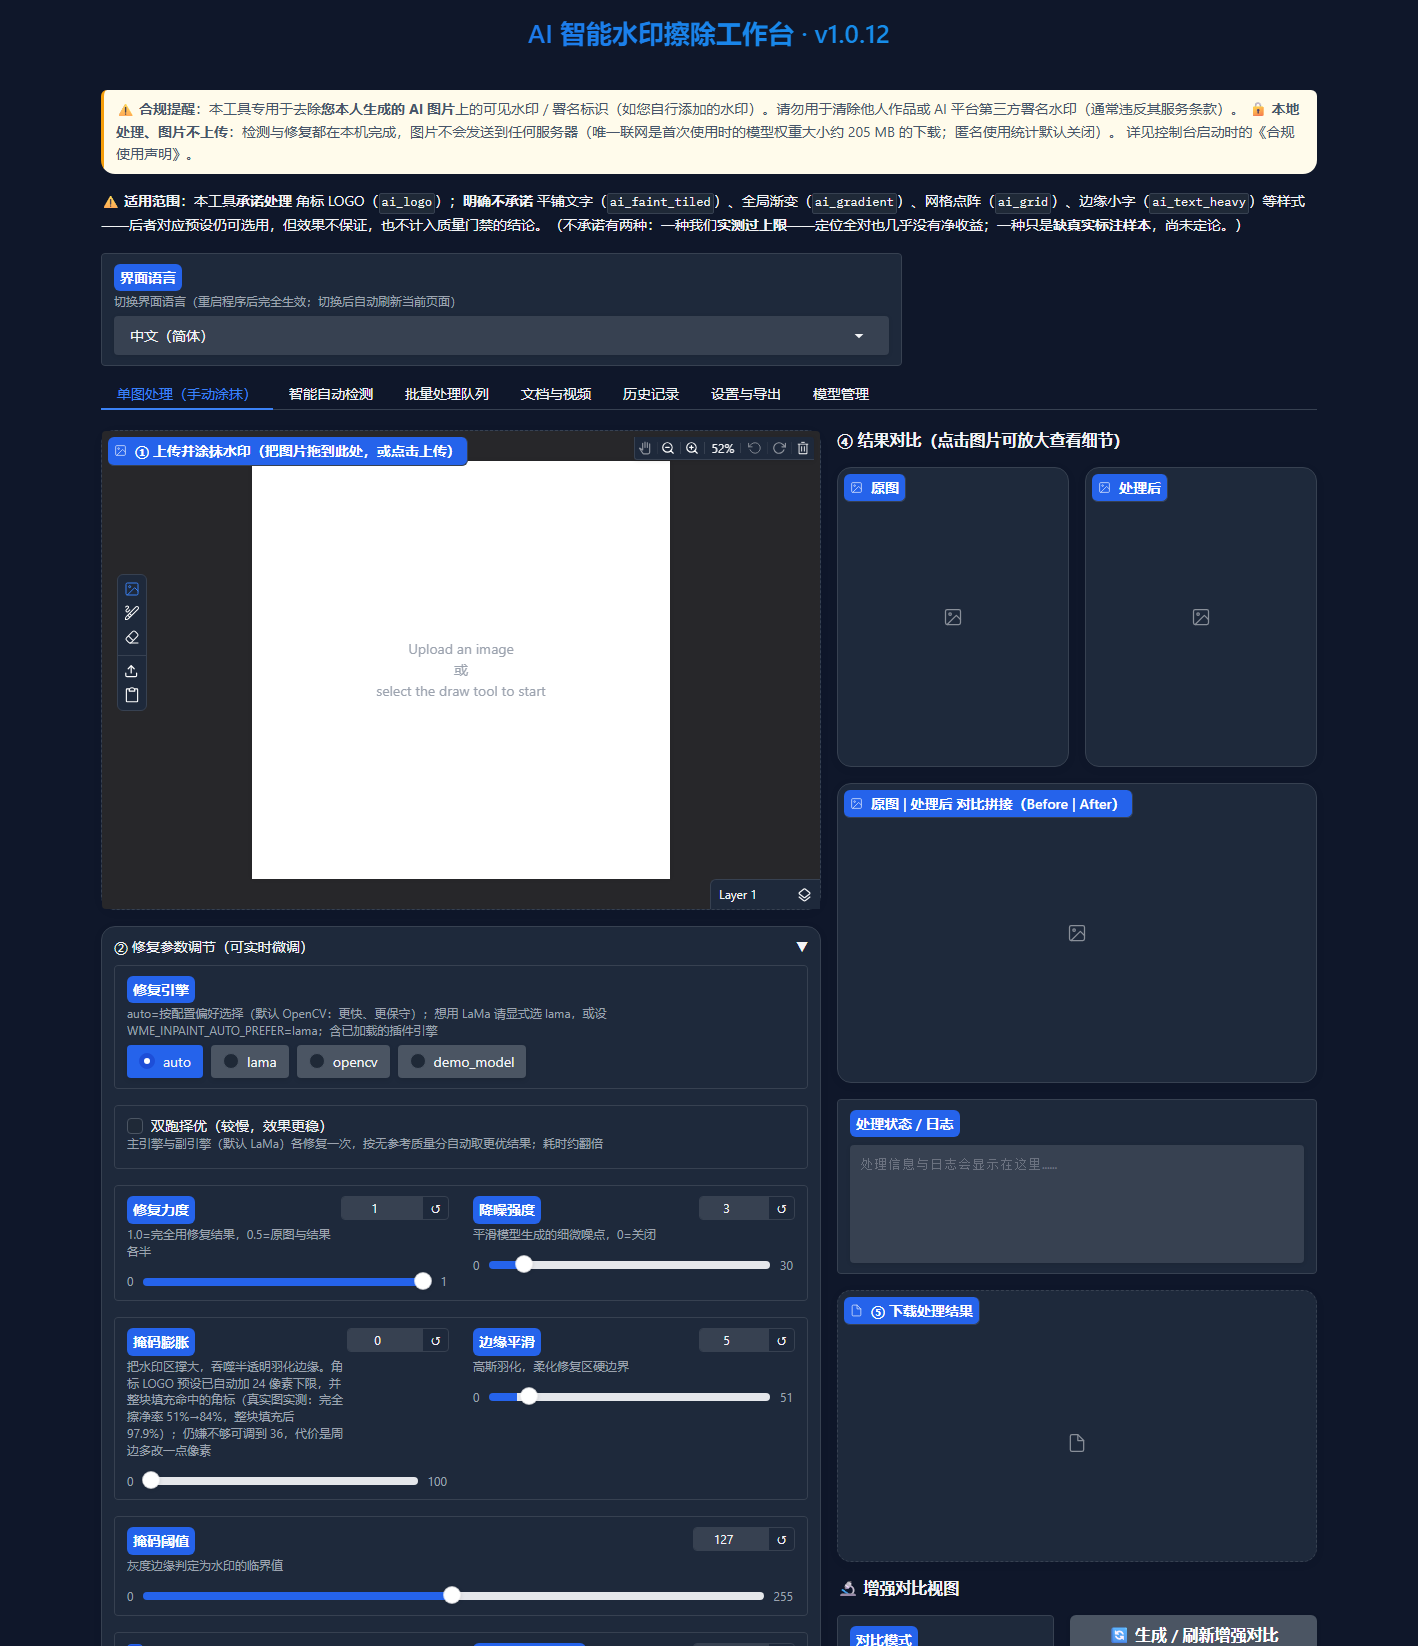
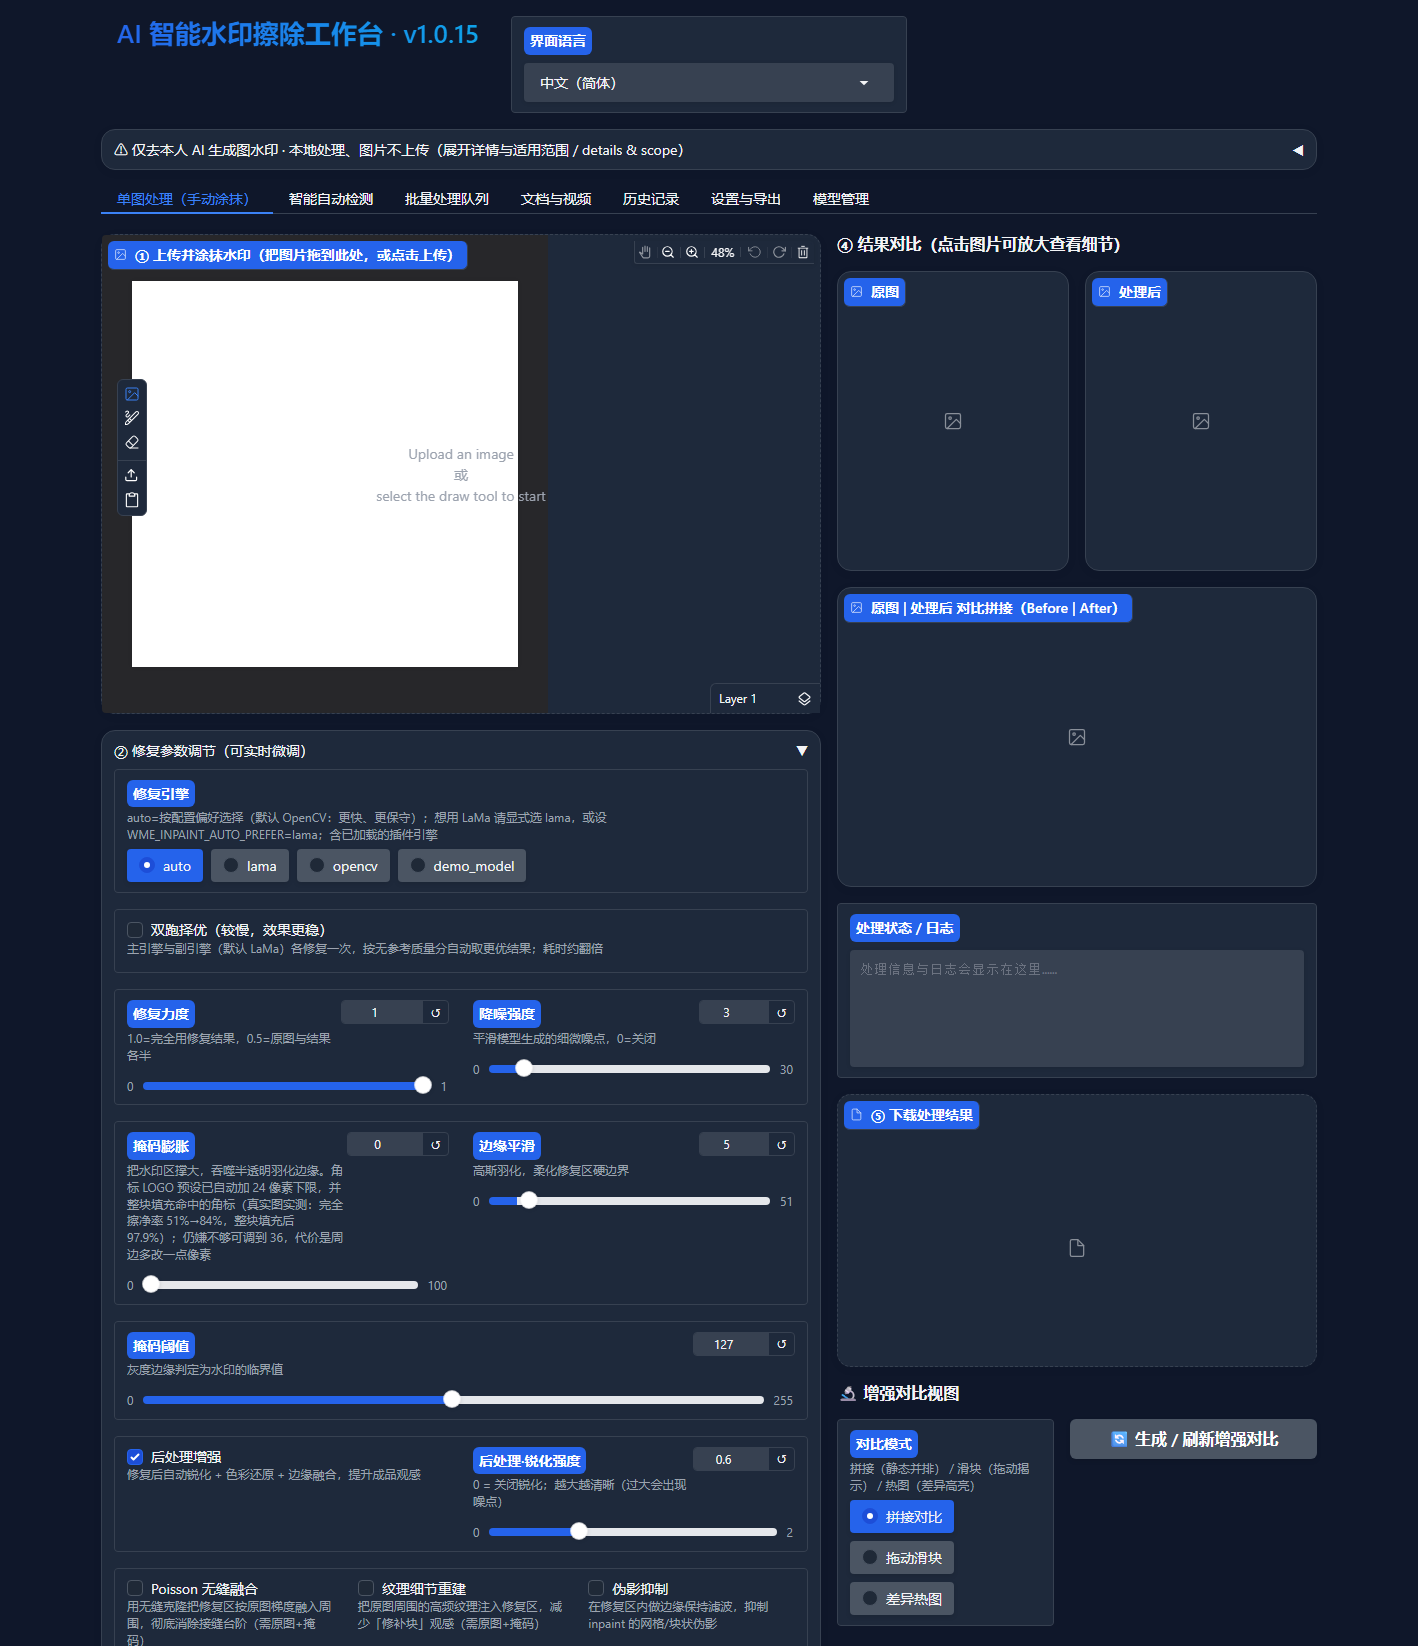
feat(界面): 首屏减负——合规/范围折叠+语言并入标题行，主流程上移（#413，截图+81守卫验证）

diff --git a/ui/app.py b/ui/app.py
@@ -408,26 +408,30 @@ def build_app() -> gr.Blocks:
         # 传给它会在启动时抛 TypeError —— 1.0.8 的发布物就是这样起不来的）。
         analytics_enabled=config.SERVER_ANALYTICS,
     ) as demo:
-        gr.Markdown(f"# {config.APP_NAME}  ·  v{config.APP_VERSION}")
-        compliance_md = gr.Markdown(_compliance_brief())
-        # 合规声明随语言切换刷新（值由 t() 实时取，不冻结）。
-        register(compliance_md, lambda: {"value": _compliance_brief()})
-        # 适用范围提示（阶段 95）：紧挨合规声明——两者都是「用之前必须知道的事」。
-        # 承诺面与类型名由 config 派生（见 ui.components.render_scope_note），
-        # 因此 config 里改一处 committed，界面文案自动同步（不会留下人读副本）。
-        scope_md = gr.Markdown(render_scope_note())
-        register(scope_md, lambda: {"value": render_scope_note()})
-
-        # ---- 顶部语言切换器 ----
+        # 阶段 413（首屏减负）：标题与语言选择同排，省掉独立语言卡。
         with gr.Row():
+            gr.Markdown(f"# {config.APP_NAME}  ·  v{config.APP_VERSION}")
             lang_dropdown = gr.Dropdown(
                 choices=[(t("lang.zh"), "zh-CN"), (t("lang.en"), "en-US")],
                 value=current_language(),
                 label=t("lang.label"),
-                info=t("lang.info"),
-                scale=2,
+                scale=1,
+                min_width=160,
             )
             lang_status = gr.Markdown("")
+        # 阶段 413（首屏减负）：合规+适用范围收进默认折叠 Accordion；
+        # 折叠标题即始终可见的合规摘要，保留「本地处理·图片不上传」核心信任点
+        # （test_compliance_statement 要求首屏写明不上传/本地）。全文点开可见，i18n 刷新保留。
+        with gr.Accordion(
+            "⚠ 仅去本人 AI 生成图水印 · 本地处理、图片不上传（展开详情与适用范围 / details & scope）",
+            open=False,
+        ):
+            compliance_md = gr.Markdown(_compliance_brief())
+            # 合规声明随语言切换刷新（值由 t() 实时取，不冻结）。
+            register(compliance_md, lambda: {"value": _compliance_brief()})
+            # 适用范围提示（阶段 95）：承诺面与类型名由 config 派生，改一处界面自动同步。
+            scope_md = gr.Markdown(render_scope_note())
+            register(scope_md, lambda: {"value": render_scope_note()})
 
         with gr.Tabs():
             with gr.TabItem(t("app.tab.single"), id="single", elem_id="single"):

diff --git a/.workbuddy/memory/2026-11-15.md b/.workbuddy/memory/2026-11-15.md
@@ -117,3 +117,9 @@ docs/408 + INDEX + CHANGELOG [Unreleased] + 本日记。不推送/不发布（1.
 - 闭环：7 处版本同步→build→两道产物闸→tag v1.0.15→push（本次无分叉，直推）→Publish #26 success。
 - PyPI 复验：requires_dist 15、wheel 1541826B（核字节数防截断）；安装态自检 rc=0；纯净 venv 黄金路径 success。
 - 本版：411 PNG 保存 5.1×。发布记录提交留本地。
+
+## 阶段 413：客户端首屏减负（用户选「首屏减负」）
+
+- 合规+适用范围收进默认折叠 Accordion（标题=始终可见合规摘要，含本地·不上传）；语言并入标题行。
+- 首屏主流程上移约220px；真实截图验证（Chrome 无头+mini_cdp）；81 UI 守卫绿；官方截图刷新。
+- 方法：brainstorming bounded→先看真实界面→问重点→给设计获批→改→截图+守卫验证。

diff --git a/CHANGELOG.md b/CHANGELOG.md
@@ -52,6 +52,13 @@
 
 ## [Unreleased]
 
+### 界面（阶段 413 · 客户端首屏减负）
+
+- 合规声明+适用范围收进默认折叠 Accordion，折叠标题即始终可见的合规摘要
+  （保留「本地处理·图片不上传」核心信任点）；语言选择并入标题行。
+- 首屏主流程（上传→检测→修复）上移约 220px，首屏直接可见上传+结果区。
+- 81 条 UI 守卫全绿（合规文案/i18n 刷新/接线不坏）；官方截图已刷新。
+
 ## [1.0.15] - 2026-11-15
 
 > **发布记录（2026-11-15）**：已上架 PyPI（`wme-watermark-eraser==1.0.15`，
